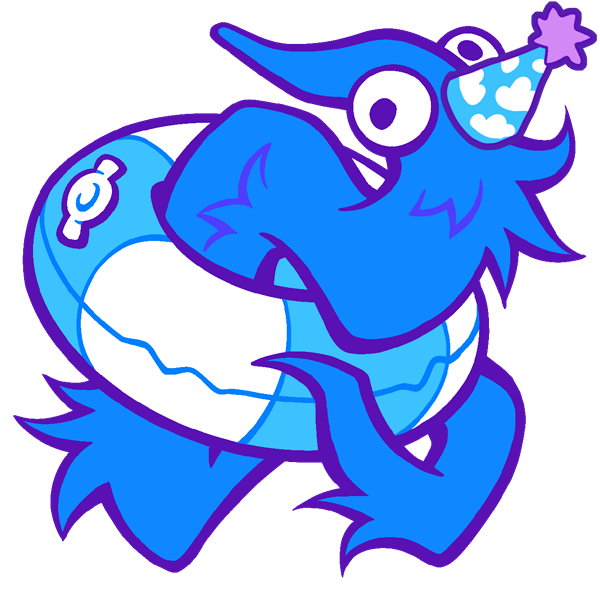
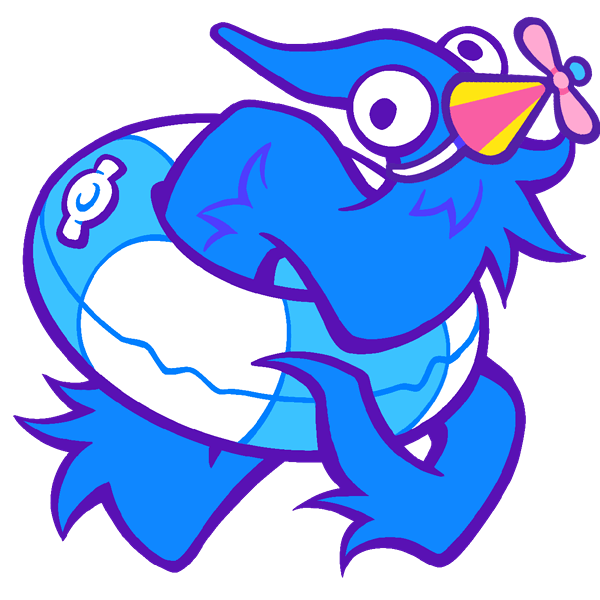
holidays set up

Changed region(s): [[0.66, 0.0, 1.0, 0.33]]

diff --git a/codecreature.net/games/worm-race/style.css b/codecreature.net/games/worm-race/style.css
@@ -401,12 +401,12 @@
 		flex-grow: 1;
 		aspect-ratio: 1;
 	}
-	.item-wrapper > div {
+	.item-wrapper > .item-content {
 		width: 100%; height: 100%;
 		border-radius: 100%;
 		background: var(--white);
 	}
-	.item-wrapper > div > * {
+	.item-wrapper > .item-content > * {
 		position: absolute;
 		margin: 0px;
 		width: 100%; height: 100%;
@@ -414,8 +414,7 @@
 		top: 50%; left: 50%;
 		transform: translate(-50%,-50%) scale(90%);
 	}
-	.item-wrapper:after {
-		content: '';
+	.item-wrapper .effect-icon {
 		display: block;
 		position: absolute;
 		bottom: 0; right: -3%;
@@ -446,26 +445,6 @@
 	.item-wrapper:hover:has(input[type=radio]:not(:disabled)) .item {
 		transform: translate(-50%,-50%);
 	}
-	label[for=apple-input] {
-		background-color: var(--l-green);
-		background-image: url('/games/worm-race/images/apple.png');
-	}
-	.item-wrapper:has(label[for=apple-input]):after { background-image: url('images/icon-progress-1.png'); }
-	label[for=drink-input] {
-		background-color: var(--l-blue);
-		background-image: url('/games/worm-race/images/drink.png');
-	}
-	.item-wrapper:has(label[for=drink-input]):after { background-image: url('images/icon-progress-2.png'); }
-	label[for=heal-input] {
-		background-color: var(--l-pink);
-		background-image: url('/games/worm-race/images/heal.png');
-	}
-	.item-wrapper:has(label[for=heal-input]):after { background-image: url('images/icon-health-pos.png'); }
-	label[for=poison-input] {
-		background-color: var(--green);
-		background-image: url('/games/worm-race/images/poison.png');
-	}
-	.item-wrapper:has(label[for=poison-input]):after { background-image: url('images/icon-health-neg.png'); }
 	.items .description {
 		display: flex;
 		flex-direction: column;

diff --git a/codecreature.net/games/worm-race/worm-detail-box.php b/codecreature.net/games/worm-race/worm-detail-box.php
@@ -45,30 +45,34 @@
 					if ($cur_item["active_today"]) {
 						$adjusted_progress = $cur_item["progress"] * $cur_item["progress_effect_".$cur_worm["health"]];
 						$adjusted_health = $cur_item["health"] * $cur_item["health_effect_".$cur_worm["health"]];?>
-						<div class="item-wrapper"><div>
-							<input type="radio" id="<?php echo $cur_item["name"]; ?>-input" class="item-input"
-								name="item" value="<?php echo $cur_item["name"]; ?>" aria-label="<?php echo $cur_item["display_name"]; ?>"
-								data-display-name="<?php echo $cur_item["display_name"]; ?>"
-								data-cooldown="<?php echo $cur_item["cooldown"]; ?>"
-								data-progress="<?php echo $adjusted_progress; ?>"
-								data-health="<?php echo $adjusted_health; ?>"
-								data-flavor-text="<?php echo $cur_item["flavor_text"]; ?>"
-								required
-								<?php
-								if (
-									$adjusted_health + $adjusted_progress == 0
-									|| ($cur_item["name"] == "poison" && $birthday_worm == $cur_worm["id"])
-								)	echo "disabled"; ?>
-							>
-							<label for="<?php echo $cur_item["name"]; ?>-input" class="item"
-								style="
-									background-image:url('<?php echo $cur_item["icon"]; ?>');
-									<?php if ($cur_item["name"] == "cake") {
-										echo "background-color:var(--".$worms[$birthday_worm]["color"].");";
-									} ?>
-								">
-							</label>
-						</div></div>
+						<div class="item-wrapper">
+							<div class="item-content">
+								<input type="radio" id="<?php echo $cur_item["name"]; ?>-input" class="item-input"
+									name="item" value="<?php echo $cur_item["name"]; ?>" aria-label="<?php echo $cur_item["display_name"]; ?>"
+									data-display-name="<?php echo $cur_item["display_name"]; ?>"
+									data-cooldown="<?php echo $cur_item["cooldown"]; ?>"
+									data-progress="<?php echo $adjusted_progress; ?>"
+									data-health="<?php echo $adjusted_health; ?>"
+									data-flavor-text="<?php echo $cur_item["flavor_text"]; ?>"
+									required
+									<?php
+									if (
+										$adjusted_health + $adjusted_progress == 0
+										|| ($cur_item["name"] == "poison" && $birthday_worm == $cur_worm["id"])
+									)	echo "disabled"; ?>
+								>
+								<label for="<?php echo $cur_item["name"]; ?>-input" class="item"
+									style="
+										background-image:url('<?php echo $cur_item["icon"]; ?>');
+										background-color: var(--<?php
+											if ($cur_item["name"] == "cake") echo $worms[$birthday_worm]["color"];
+											else echo $cur_item["background"];
+										?>);
+									">
+								</label>
+							</div>
+							<div class="effect-icon" style="background-image: url('images/icon-<?php echo $cur_item["effect_icon"]; ?>.png');"></div>
+						</div>
 						<?php
 					}
 				}

diff --git a/codecreature.net/games/worm-race/worm-functions.php b/codecreature.net/games/worm-race/worm-functions.php
@@ -29,11 +29,41 @@ $tomorrow = (new DateTime('tomorrow'))->format('m-d');
 $cur_holiday = "none";
 $birthday_worm = "";
 
+// start = first day of event
+// end = last day of event
+$holidays = [
+	//[ "name" => "halloween", "start" => "01-01", "end" => "12-31" ],
+	
+	[ "name" => "hearts", "start" => "02-08", "end" => "02-14" ],
+	[ "name" => "fools", "start" => "04-01", "end" => "04-07" ],
+	[ "name" => "summer", "start" => "06-16", "end" => "06-22" ],
+	[ "name" => "meteors", "start" => "08-10", "end" => "08-16" ],
+	[ "name" => "halloween", "start" => "10-25", "end" => "10-31" ],
+	[ "name" => "winter", "start" => "12-16", "end" => "12-22" ],
+];
+
 function getAllData() {
 	$loading = true;
+	checkHolidays();
 	getWormData();
 	getWormAwards();
 	$loading = false;
+}
+
+// check if it is currently a holiday event
+function checkHolidays() {
+	global $holidays; global $cur_holiday;
+	// get current timestamp and year
+	$time = time();
+	$year = date('Y');
+	// check each holiday
+	for ($i = 0; $i < count($holidays); $i++) {
+		$h = $holidays[$i];
+		$start = strtotime($year."-".$h["start"]." 00:00:00");
+		$end = strtotime($year."-".$h["end"]."11:59:59.999");
+		// if the current time is within the holiday, set cur_holiday to that holiday
+		if ($time > $start && $time < $end) $cur_holiday = $h["name"];
+	}
 }
 
 // get all worm data, insert into $worms array
@@ -86,7 +116,8 @@ function getWormData() {
 			} else $worms[$i]["is_birthday"] = false;
 			// get worm image
 			if ($cur_holiday != "none" && $cur_holiday != "birthday") $holiday_path = "$cur_holiday/";
-			$worms[$i]["image"] = $image_path . $holiday_path . $worms[$i]["color"] . ".png";
+			$worms[$i]["image"] = $image_path.$holiday_path.$worms[$i]["color"].".png";
+			if (!file_exists($_SERVER['DOCUMENT_ROOT'].$worms[$i]["image"])) $worms[$i]["image"] = $image_path.$worms[$i]["color"].".png";
 		}
 		
 		// get item data
